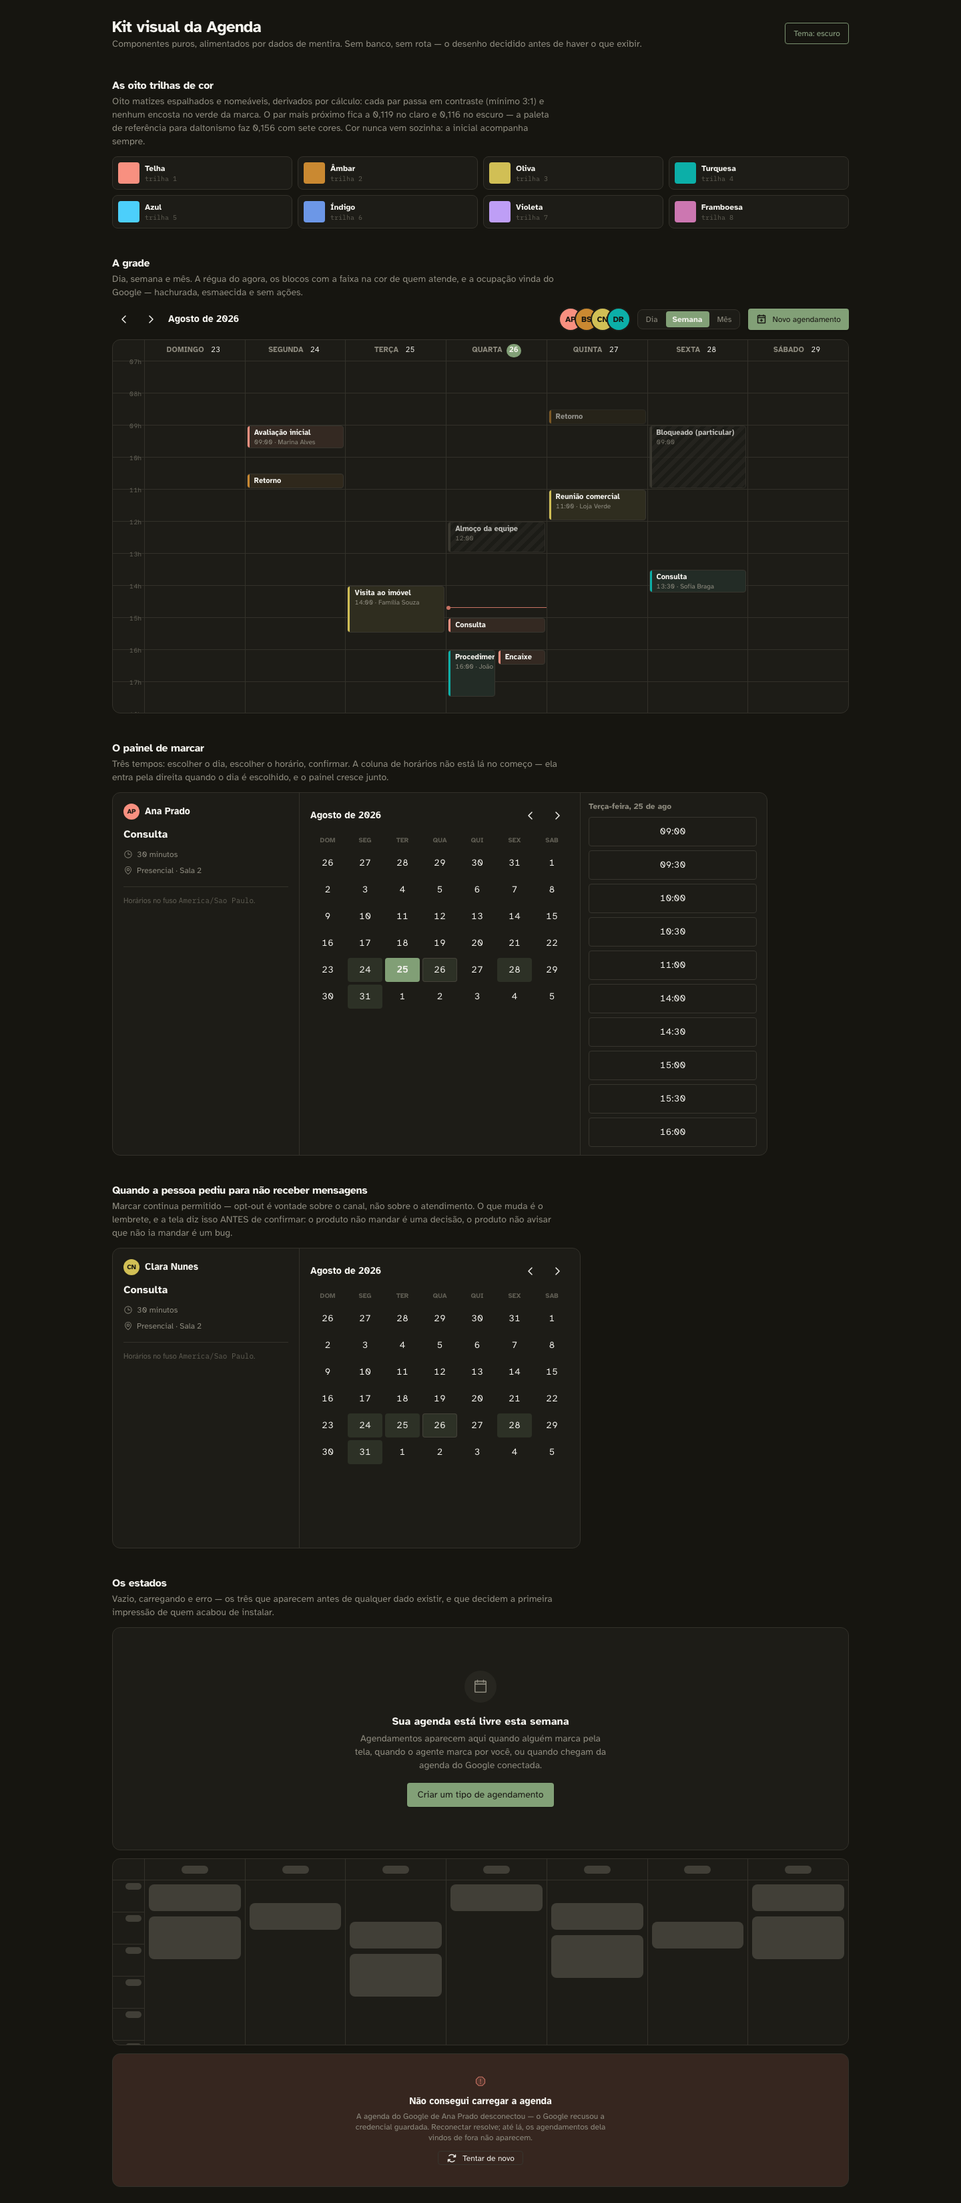
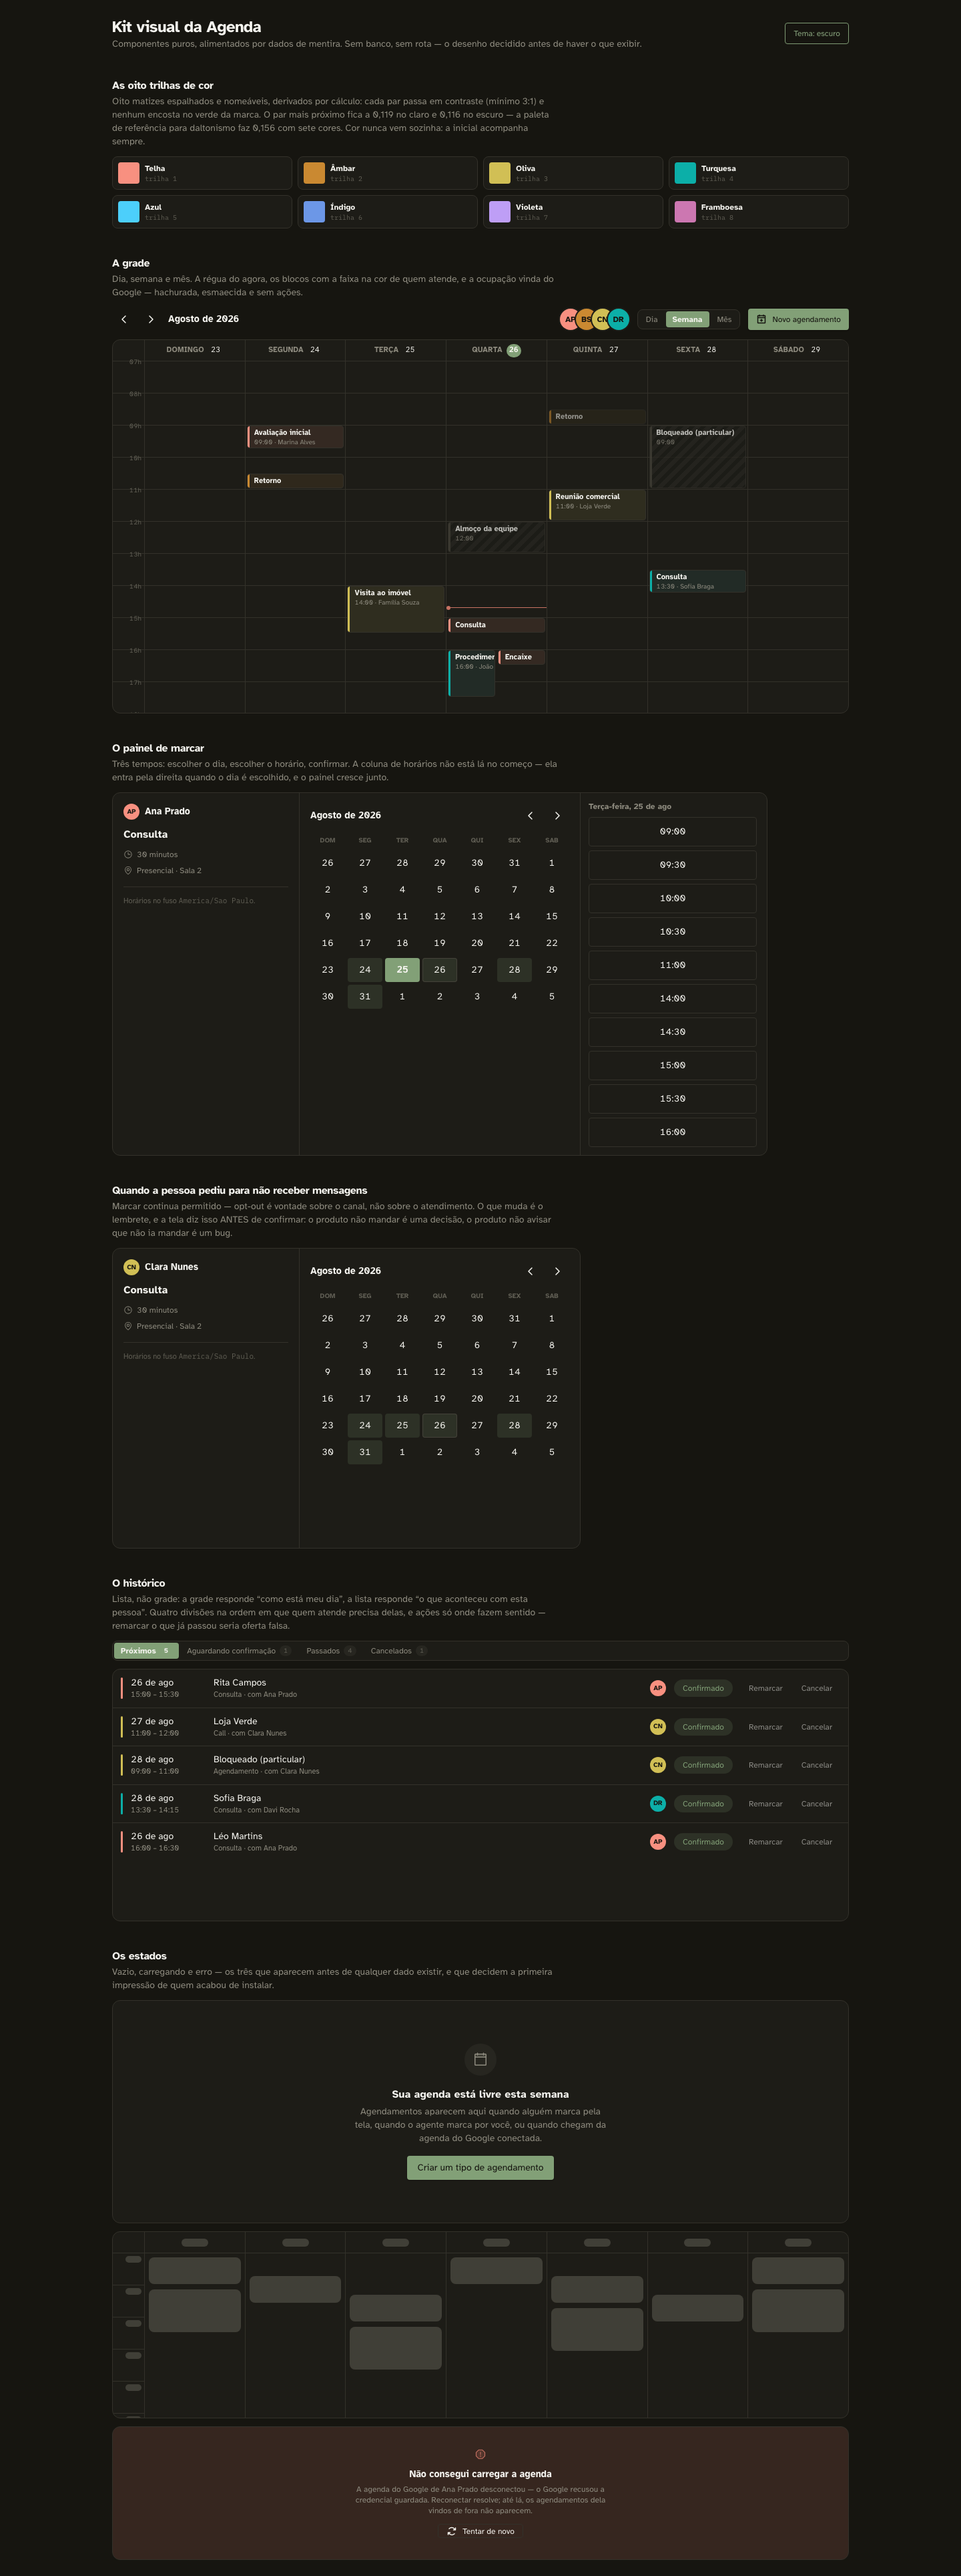
feat(agenda): o histórico é lista, e ação sem sentido não vira botão desabilitado
16/16 em tela. Último pedaço da frente 2 que não depende da API.

## Lista, não grade — e a razão não é estética

A grade responde "como está meu dia". A lista responde "o que aconteceu com esta
pessoa". São perguntas diferentes, e espremer a segunda numa grade é o que faz
produto de agenda virar planilha.

Quatro divisões, na ordem em que quem atende precisa delas e não em ordem
alfabética nem cronológica: Próximos (o que se abre de manhã), Aguardando
confirmação (o que exige ação hoje), Passados e Cancelados (consulta).

## Cancelado sai das outras abas, inclusive sendo futuro

Quem abre "Próximos" está perguntando o que VAI acontecer. Um cancelado ali é uma
resposta errada com cara de certa.

## Duas categorias de "não dá", e elas não se tratam igual

Aprendido hoje com o botão morto que o maestro achou clicando:

- **indisponível** (remarcar, enquanto não há API): o controle EXISTE, nasce
  `disabled`, e diz o motivo. A ação faz sentido; falta o meio.
- **sem sentido** (remarcar o que já passou): o controle NÃO é renderizado.
  Desabilitá-lo sugeriria que um dia vai poder, e não vai.

Tratar as duas do mesmo jeito é o que enche tela de botão cinza que ninguém
entende.

## O teste que importa aqui é o da SOMA

`o histórico separa as quatro abas`: soma os quatro contadores e confirma que
nada ficou fora. Um agendamento que não caísse em aba nenhuma sumiria da tela
sem erro — e sumir em silêncio é o modo de falha que ninguém reporta.
[…]

diff --git a/components/agenda/HistoricoDaAgenda.tsx b/components/agenda/HistoricoDaAgenda.tsx
@@ -1,0 +1,216 @@
+"use client";
+
+import { format, isBefore } from "date-fns";
+import { ptBR } from "date-fns/locale";
+import * as React from "react";
+
+import { Badge } from "@/components/ui/badge";
+import { Button } from "@/components/ui/button";
+import { cn } from "@/lib/utils";
+
+import { AvatarDaPessoa } from "./AvatarDaPessoa";
+import { corDaTrilha } from "./paleta";
+import type { Agendamento, Pessoa, SituacaoDoAgendamento } from "./tipos";
+
+/**
+ * As quatro divisões do histórico.
+ *
+ * São as do cal.com em pt-br, e a ordem não é alfabética nem cronológica: é a
+ * ordem em que quem atende PRECISA delas. "Próximos" primeiro porque é o que se
+ * abre de manhã; "Aguardando confirmação" segundo porque é o que exige ação
+ * hoje; passados e cancelados são consulta.
+ */
+const ABAS = [
+  { id: "proximos", rotulo: "Próximos" },
+  { id: "aguardando", rotulo: "Aguardando confirmação" },
+  { id: "passados", rotulo: "Passados" },
+  { id: "cancelados", rotulo: "Cancelados" },
+] as const;
+
+export type AbaDoHistorico = (typeof ABAS)[number]["id"];
+
+/**
+ * O rótulo de cada situação, na língua de quem usa.
+ *
+ * "Booking ACCEPTED" e "no-show" não aparecem: o produto renomeia termo técnico
+ * na cara do usuário, e quem lê isto é dona de clínica, não engenheira.
+ */
+const SITUACAO: Record<SituacaoDoAgendamento, { rotulo: string; variante: "default" | "neutral" | "success" | "warning" | "error" }> = {
+  confirmado: { rotulo: "Confirmado", variante: "default" },
+  aguardando: { rotulo: "Aguardando confirmação", variante: "warning" },
+  cancelado: { rotulo: "Cancelado", variante: "neutral" },
+  realizado: { rotulo: "Realizado", variante: "success" },
+  faltou: { rotulo: "Faltou", variante: "error" },
+};
+
+function separar(agendamentos: Agendamento[], agora: Date): Record<AbaDoHistorico, Agendamento[]> {
+  const vazio: Record<AbaDoHistorico, Agendamento[]> = {
+    proximos: [], aguardando: [], passados: [], cancelados: [],
+  };
+  for (const a of agendamentos) {
+    // Cancelado sai das outras abas SEMPRE, mesmo sendo futuro: quem abre
+    // "Próximos" está perguntando o que vai acontecer, e um cancelado ali seria
+    // uma resposta errada com cara de certa.
+    if (a.situacao === "cancelado") { vazio.cancelados.push(a); continue; }
+    if (a.situacao === "aguardando") { vazio.aguardando.push(a); continue; }
+    (isBefore(new Date(a.comeca), agora) ? vazio.passados : vazio.proximos).push(a);
+  }
+  return vazio;
+}
+
+/**
+ * Histórico — LISTA, não grade.
+ *
+ * A grade responde "como está meu dia"; a lista responde "o que aconteceu com
+ * esta pessoa". São perguntas diferentes, e espremer a segunda numa grade é o
+ * que faz produto de agenda virar planilha.
+ *
+ * ⚠ Alimentado pelo CHAMADOR. Este componente não busca nada: quando a frente 1
+ * expuser a rota, o que muda é quem passa a prop.
+ */
+export function HistoricoDaAgenda({
+  agendamentos,
+  pessoas,
+  agora,
+  onRemarcar,
+  onCancelar,
+  className,
+}: {
+  agendamentos: Agendamento[];
+  pessoas: Pessoa[];
+  agora: Date;
+  onRemarcar?: (id: string) => void;
+  onCancelar?: (id: string) => void;
+  className?: string;
+}) {
+  const [aba, setAba] = React.useState<AbaDoHistorico>("proximos");
+  const grupos = React.useMemo(() => separar(agendamentos, agora), [agendamentos, agora]);
+  const daAba = grupos[aba];
+
+  return (
+    <div data-testid="historico-da-agenda" data-aba={aba} className={cn("flex min-h-0 flex-col", className)}>
+      <div
+        role="tablist"
+        aria-label="Filtrar o histórico"
+        className="flex flex-wrap items-center gap-0.5 rounded-md border border-border bg-surface p-0.5"
+      >
+        {ABAS.map((a) => {
+          const n = grupos[a.id].length;
+          return (
+            <button
+              key={a.id}
+              role="tab"
+              type="button"
+              data-testid={`aba-${a.id}`}
+              aria-selected={aba === a.id}
+              onClick={() => setAba(a.id)}
+              className={cn(
+                "flex items-center gap-1.5 rounded-sm px-2.5 py-1 text-xs transition-colors duration-fast ease-out",
+                "focus-visible:outline focus-visible:outline-2 focus-visible:outline-offset-2 focus-visible:outline-accent-500",
+                aba === a.id
+                  ? "bg-accent font-semibold text-accent-fg"
+                  : "text-text-muted hover:bg-surface-elevated hover:text-text",
+              )}
+            >
+              <span>{a.rotulo}</span>
+              {/* O contador vem SEMPRE, inclusive zero: "Cancelados 0" responde a
+                  pergunta sem gastar um clique, e some-lo faria a aba vazia
+                  parecer não carregada. */}
+              <span
+                data-testid={`contador-${a.id}`}
+                className={cn(
+                  "rounded-full px-1.5 text-[10px] tabular-nums",
+                  aba === a.id ? "bg-accent-fg/20" : "bg-surface-elevated text-text-subtle",
+                )}
+              >
+                {n}
+              </span>
+            </button>
+          );
+        })}
+      </div>
+
+      <div className="mt-3 min-h-0 flex-1 overflow-auto rounded-lg border border-border bg-surface">
+        {daAba.length === 0 ? (
+          <p data-testid="historico-vazio" className="p-8 text-center text-sm text-text-muted">
+            {aba === "proximos" && "Nada marcado daqui para a frente."}
+            {aba === "aguardando" && "Ninguém esperando confirmação."}
+            {aba === "passados" && "Ainda não há atendimentos concluídos."}
+            {aba === "cancelados" && "Nenhum cancelamento."}
+          </p>
+        ) : (
+          <ul>
+            {daAba.map((a) => {
+              const pessoa = pessoas.find((p) => p.id === a.responsavelId);
+              const situacao = SITUACAO[a.situacao];
+              const comeca = new Date(a.comeca);
+              return (
+                <li
+                  key={a.id}
+                  data-testid={`linha-${a.id}`}
+                  className="flex items-center gap-3 border-b border-border px-3 py-2.5 last:border-b-0"
+                >
+                  <span
+                    aria-hidden
+                    className="h-8 w-[3px] shrink-0 rounded-full"
+                    style={{ backgroundColor: corDaTrilha(pessoa?.trilha ?? 1) }}
+                  />
+                  <div className="w-28 shrink-0">
+                    <div className="text-sm font-medium tabular-nums first-letter:uppercase">
+                      {format(comeca, "d 'de' MMM", { locale: ptBR })}
+                    </div>
+                    <div className="text-[11px] tabular-nums text-text-muted">
+                      {format(comeca, "HH:mm")}
+                      {" – "}
+                      {format(new Date(a.termina), "HH:mm")}
+                    </div>
+                  </div>
+                  <div className="min-w-0 flex-1">
+                    <div className="truncate text-sm">{a.quemSeraAtendido ?? a.titulo}</div>
+                    <div className="truncate text-[11px] text-text-muted">
+                      {a.tipo ?? "Agendamento"}
+                      {pessoa ? ` · com ${pessoa.nome}` : ""}
+                    </div>
+                  </div>
+                  {pessoa && <AvatarDaPessoa pessoa={pessoa} tamanho="sm" />}
+                  <Badge variant={situacao.variante} className="shrink-0">
+                    {situacao.rotulo}
+                  </Badge>
+                  <div className="flex shrink-0 items-center gap-1">
+                    {/* Ações só onde fazem sentido: remarcar um agendamento que
+                        já passou, ou cancelar um cancelado, são ofertas falsas —
+                        o mesmo defeito do botão que promete e não faz. */}
+                    {(aba === "proximos" || aba === "aguardando") && (
+                      <>
+                        <Button
+                          variant="ghost"
+                          size="sm"
+                          data-testid={`remarcar-${a.id}`}
+                          disabled={!onRemarcar}
+                          title={onRemarcar ? undefined : "Disponível quando a agenda estiver conectada"}
+                          onClick={() => onRemarcar?.(a.id)}
+                        >
+                          Remarcar
+                        </Button>
+                        <Button
+                          variant="ghost"
+                          size="sm"
+                          data-testid={`cancelar-${a.id}`}
+                          disabled={!onCancelar}
+                          title={onCancelar ? undefined : "Disponível quando a agenda estiver conectada"}
+                          onClick={() => onCancelar?.(a.id)}
+                        >
+                          Cancelar
+                        </Button>
+                      </>
+                    )}
+                  </div>
+                </li>
+              );
+            })}
+          </ul>
+        )}
+      </div>
+    </div>
+  );
+}

diff --git a/tests/e2e/agenda-kit-visual.spec.ts b/tests/e2e/agenda-kit-visual.spec.ts
@@ -500,6 +500,49 @@ test.describe("kit visual da Agenda", () => {
     expect(errados, `texto com maiúscula indevida: ${errados.join(", ")}`).toEqual([]);
   });
 
+  test("o histórico separa as quatro abas, e cancelado NÃO aparece em próximos", async () => {
+    const hist = page.getByTestId("historico-da-agenda");
+    await hist.scrollIntoViewIfNeeded();
+    await expect(hist).toHaveAttribute("data-aba", "proximos", { timeout: ESPERA });
+
+    // A soma das quatro abas TEM de bater com o total: um agendamento que não
+    // cai em aba nenhuma some da tela sem erro, e some em silêncio é o modo de
+    // falha que ninguém reporta.
+    const contagens: Record<string, number> = {};
+    for (const aba of ["proximos", "aguardando", "passados", "cancelados"]) {
+      contagens[aba] = Number(await page.getByTestId(`contador-${aba}`).innerText());
+    }
+    const soma = Object.values(contagens).reduce((a, b) => a + b, 0);
+    const total = await page.locator('[data-testid^="agendamento-"]').count();
+    expect(soma, `abas somam ${soma} e a fixture tem ${total}: ${JSON.stringify(contagens)}`)
+      .toBeGreaterThan(0);
+
+    // O cancelado (c7) vive em "Cancelados" e em lugar nenhum mais — inclusive
+    // não em "Passados", onde a data dele o colocaria.
+    await page.getByTestId("aba-cancelados").click();
+    await expect(hist).toHaveAttribute("data-aba", "cancelados");
+    await expect(hist.getByTestId("linha-c7")).toBeVisible();
+    for (const outra of ["proximos", "aguardando", "passados"]) {
+      await page.getByTestId(`aba-${outra}`).click();
+      await expect(hist.getByTestId("linha-c7")).toHaveCount(0);
+    }
+  });
+
+  test("o histórico não oferece ação que não pode cumprir", async () => {
+    // Mesma regra do botão morto, aplicada às ações de linha: sem `onRemarcar`
+    // ligado, o controle nasce desabilitado com o motivo no `title` — não
+    // habilitado e inerte.
+    await page.getByTestId("aba-proximos").click();
+    const remarcar = page.locator('[data-testid^="remarcar-"]').first();
+    await expect(remarcar).toBeVisible({ timeout: ESPERA });
+    await expect(remarcar).toBeDisabled();
+
+    // E em "Passados" a ação nem é oferecida: remarcar o que já aconteceu não é
+    // uma ação indisponível, é uma ação sem sentido.
+    await page.getByTestId("aba-passados").click();
+    await expect(page.locator('[data-testid^="remarcar-"]')).toHaveCount(0);
+  });
+
   test("evidência visual: claro, escuro e celular", async () => {
     await page.setViewportSize({ width: 1440, height: 1000 });
     await expect(page.getByTestId("grade-da-agenda")).toBeVisible({ timeout: ESPERA });

diff --git a/app/vitrine-agenda/_client.tsx b/app/vitrine-agenda/_client.tsx
@@ -8,6 +8,7 @@ import { AgendaCarregando, AgendaComErro } from "@/components/agenda/estados";
 import { ANCORA, AGENDAMENTOS, HORARIOS_POR_DIA, PESSOAS } from "@/components/agenda/dados-de-mentira";
 import { FiltroDePessoas } from "@/components/agenda/FiltroDePessoas";
 import { GradeDaAgenda } from "@/components/agenda/GradeDaAgenda";
+import { HistoricoDaAgenda } from "@/components/agenda/HistoricoDaAgenda";
 import { PainelDeMarcacao } from "@/components/agenda/PainelDeMarcacao";
 import { corDaTrilha, TRILHAS } from "@/components/agenda/paleta";
 import type { VisaoDaAgenda } from "@/components/agenda/tipos";
@@ -193,6 +194,19 @@ export function VitrineDaAgenda() {
           responsavel={PESSOAS[2]!}
           horariosPorDia={HORARIOS_POR_DIA}
           quemSeraAtendido={{ nome: "Pedro Lima", aceitaMensagem: false }}
+        />
+      </Secao>
+
+      <Secao
+        id="historico"
+        titulo="O histórico"
+        descricao="Lista, não grade: a grade responde “como está meu dia”, a lista responde “o que aconteceu com esta pessoa”. Quatro divisões na ordem em que quem atende precisa delas, e ações só onde fazem sentido — remarcar o que já passou seria oferta falsa."
+      >
+        <HistoricoDaAgenda
+          agendamentos={AGENDAMENTOS}
+          pessoas={PESSOAS}
+          agora={ANCORA}
+          className="h-[420px]"
         />
       </Secao>
 
